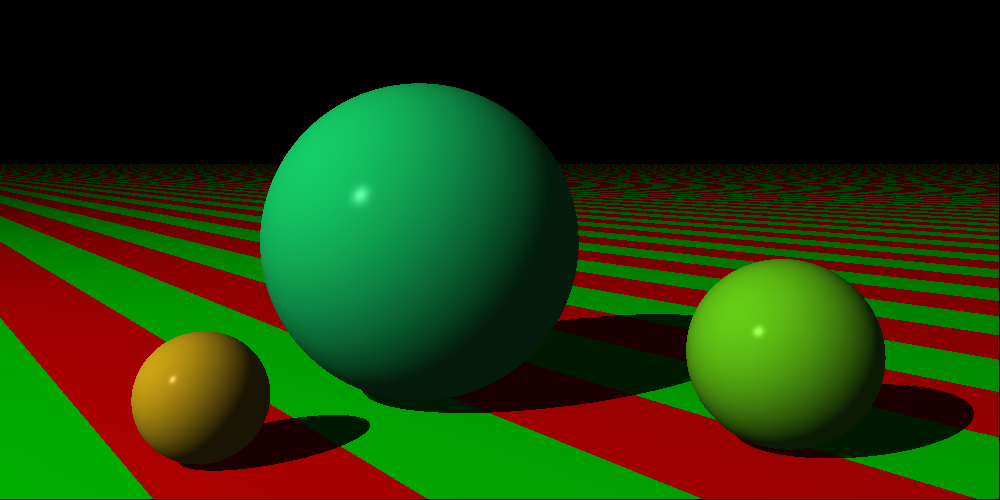
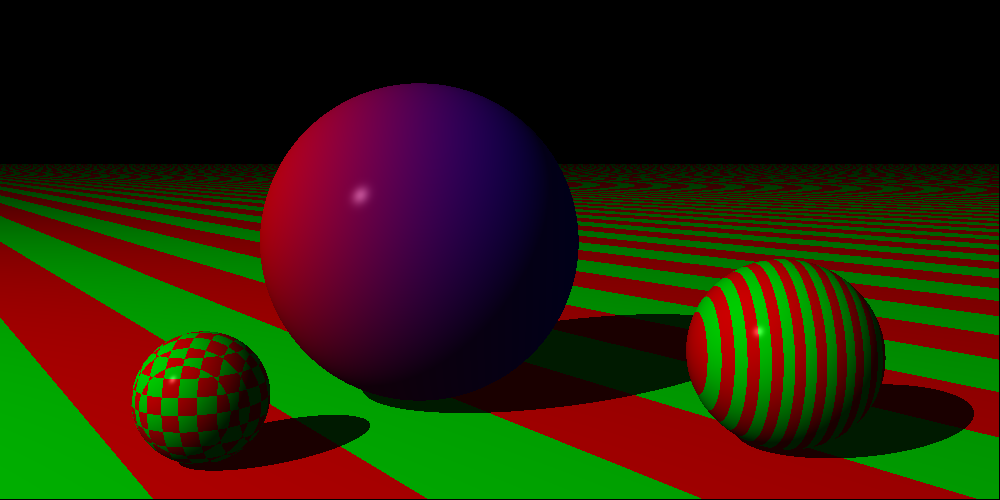
minor updates to the 3 spheres/striped plane image/executable

Changed region(s): [[0.248, 0.15, 0.589, 0.81], [0.682, 0.51, 0.899, 0.9], [0.124, 0.66, 0.279, 0.93]]

diff --git a/main/phong_render_three_spheres_and_striped_plane.c b/main/phong_render_three_spheres_and_striped_plane.c
@@ -11,13 +11,13 @@
 #include <math.h>
 
 void build_world(WORLD_World* world) {
-    TUPLES_Color red, green;
+    TUPLES_Color red, green, blue;
     TUPLES_init_color(&red, 1, 0, 0);
     TUPLES_init_color(&green, 0, 1, 0);
+    TUPLES_init_color(&blue, 0, 0, 1);
     PLANE_Plane* floor = PLANE_new();
     WORLD_add_object(world, floor);
     MATERIAL_Material* material = MATERIAL_new();
-    TUPLES_init_color(&material->color, 1, 0.9, 0.9);
     material->specular = 0;
     PATTERN_Pattern* floor_pattern = PATTERN_new_stripe(&red, &green);
     MATRIX_Matrix* pattern_transform = MATRIX_new_rotation_y(-M_PI / 5);
@@ -34,7 +34,14 @@ void build_world(WORLD_World* world) {
     SPHERE_set_transform(middle, middle_transform);
     MATRIX_delete(middle_transform);
     MATERIAL_Material* middle_material = MATERIAL_new();
-    TUPLES_init_color(&middle_material->color, 0.1, 1, 0.5);
+    PATTERN_Pattern* middle_pattern = PATTERN_new_gradient(&red, &blue);
+    MATRIX_Matrix* middle_pattern_translate = MATRIX_new_translation(0.5, 0, 0);
+    MATRIX_Matrix* middle_pattern_scale = MATRIX_new_scaling(2, 2, 2);
+    MATRIX_Matrix* middle_pattern_transform = MATRIX_multiply(middle_pattern_scale, middle_pattern_translate);
+    PATTERN_set_transform(middle_pattern, middle_pattern_transform);
+    MATRIX_delete_all(middle_pattern_scale, middle_pattern_transform, middle_pattern_translate);
+    MATERIAL_set_pattern(middle_material, middle_pattern);
+    PATTERN_delete(middle_pattern);
     middle_material->diffuse = 0.7;
     middle_material->specular = 0.3;
     SPHERE_set_material(middle, middle_material);
@@ -48,7 +55,12 @@ void build_world(WORLD_World* world) {
     SPHERE_set_transform(right, right_transform);
     MATRIX_delete_all(right_translation, right_scaling, right_transform);
     MATERIAL_Material* right_material = MATERIAL_new();
-    TUPLES_init_color(&right_material->color, 0.5, 1, 0.1);
+    PATTERN_Pattern* right_pattern = PATTERN_new_stripe(&red, &green);
+    MATRIX_Matrix* right_pattern_scale = MATRIX_new_scaling(0.1, 0.1, 0.1);
+    PATTERN_set_transform(right_pattern, right_pattern_scale);
+    MATRIX_delete(right_pattern_scale);
+    MATERIAL_set_pattern(right_material, right_pattern);
+    PATTERN_delete(right_pattern);
     right_material->diffuse = 0.7;
     right_material->specular = 0.3;
     SPHERE_set_material(right, right_material);
@@ -62,7 +74,12 @@ void build_world(WORLD_World* world) {
     SPHERE_set_transform(left, left_transform);
     MATRIX_delete_all(left_translation, left_scaling, left_transform);
     MATERIAL_Material* left_material = MATERIAL_new();
-    TUPLES_init_color(&left_material->color, 1, 0.8, 0.1);
+    PATTERN_Pattern* left_pattern = PATTERN_new_checkers(&red, &green);
+    MATRIX_Matrix* left_pattern_scale = MATRIX_new_scaling(0.25, 0.25, 0.25);
+    PATTERN_set_transform(left_pattern, left_pattern_scale);
+    MATRIX_delete(left_pattern_scale);
+    MATERIAL_set_pattern(left_material, left_pattern);
+    PATTERN_delete(left_pattern);
     left_material->diffuse = 0.7;
     left_material->specular = 0.3;
     SPHERE_set_material(left, left_material);
